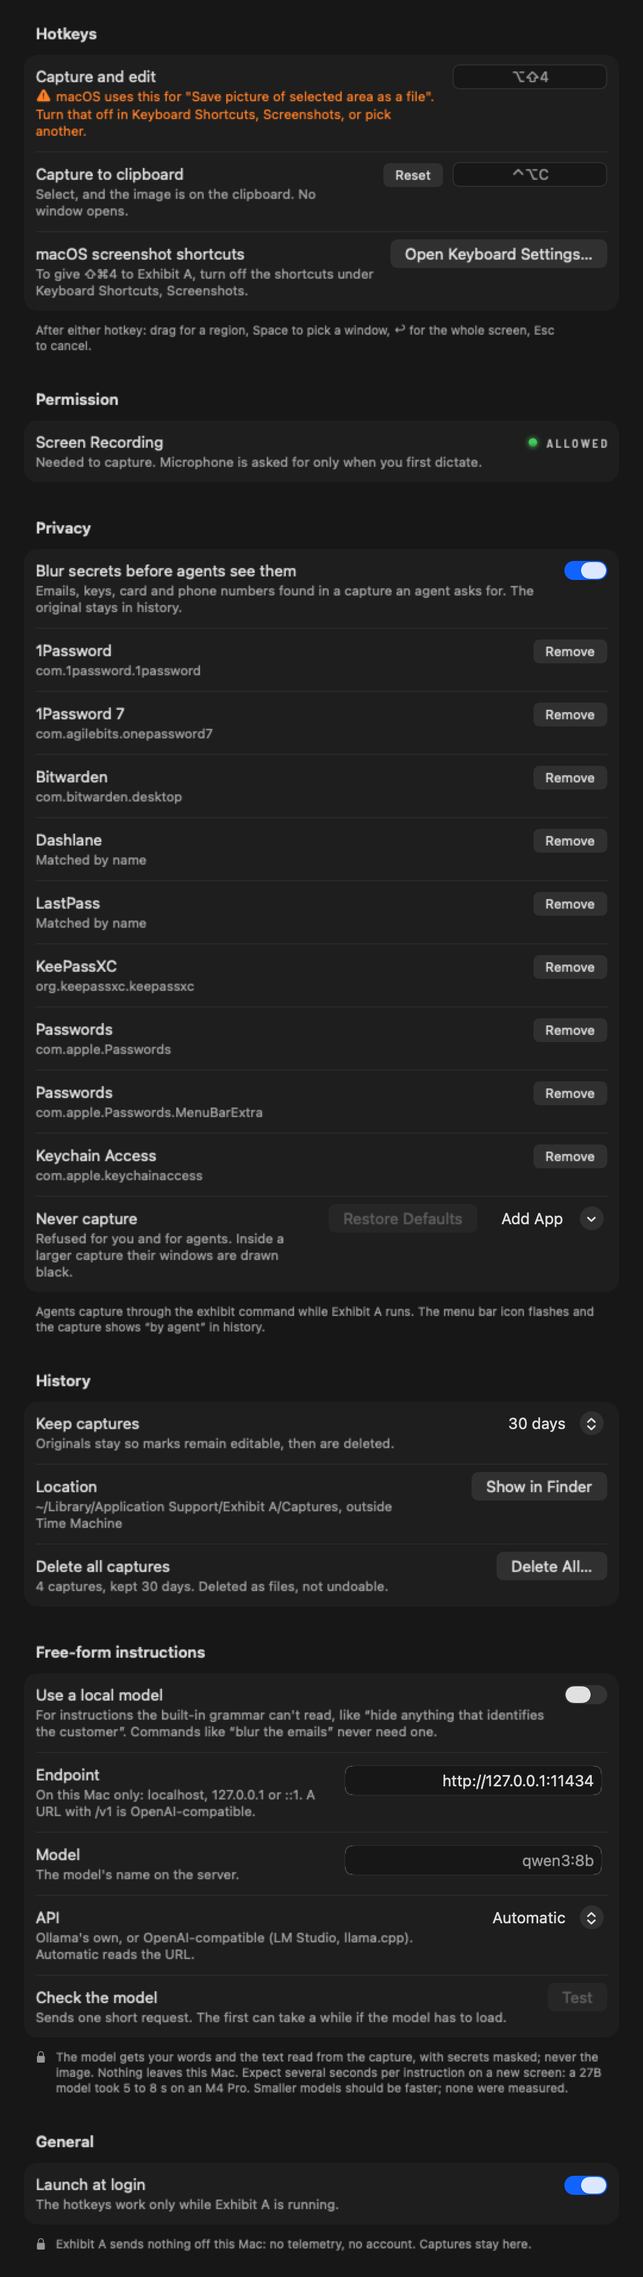
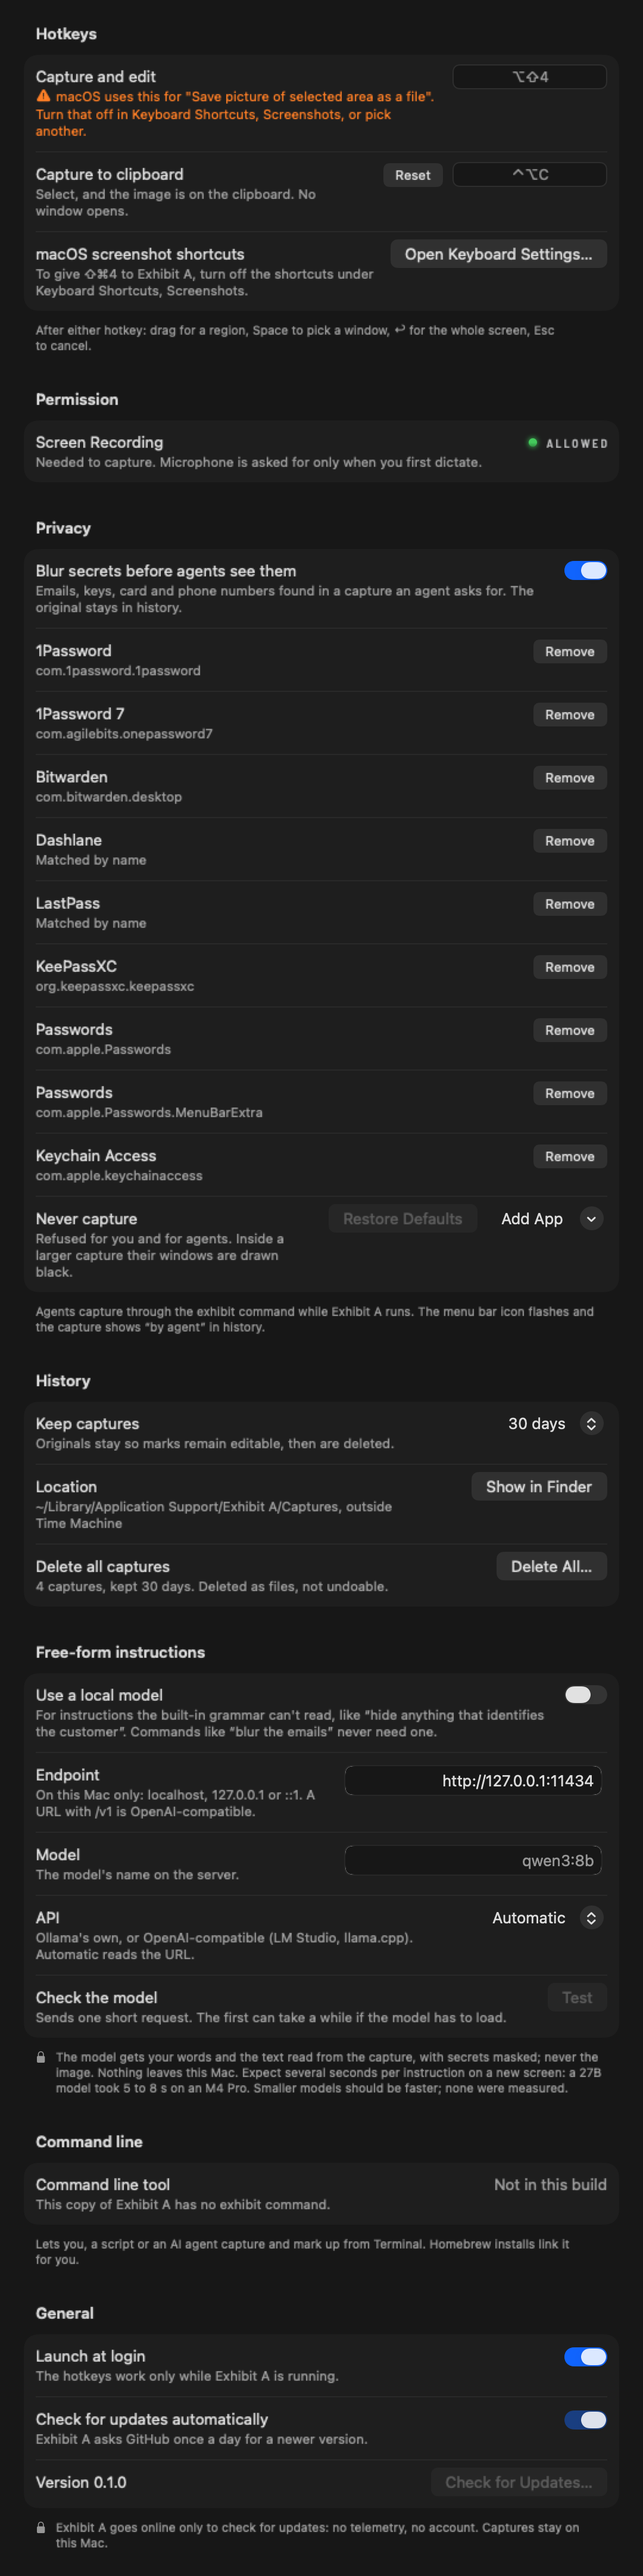
Add a Command line row to Settings: link exhibit onto the PATH, copy the MCP line
Shows whether the bundled command is linked, links it without a password prompt, and offers the
`claude mcp add exhibit -- <path> mcp` line. New settings-command-line samples; the other Settings samples gain the
row and the update controls.

Changed region(s): [[0.0611, 0.0, 0.9472, 0.9958], [0.8556, 0.2178, 0.9472, 0.4046], [0.9167, 0.8402, 0.9472, 0.8713]]

diff --git a/ExhibitAViewTests/PanelRenderTests.swift b/ExhibitAViewTests/PanelRenderTests.swift
@@ -169,6 +169,21 @@ final class PanelRenderTests: XCTestCase {
         try renderSettings(model, name: "settings-free-form-not-loopback", schemes: [.light], freeForm: remote)
     }
 
+    /// The command line row unlinked and the updater configured. The fake app bundle sits at a fixed /tmp path so
+    /// the MCP line in the sample is the same on every Mac.
+    func testRendersCommandLineAndUpdateSettings() throws {
+        let model = try makeModel()
+        let macOS = URL(fileURLWithPath: "/tmp/exhibita-render/Exhibit A.app/Contents/MacOS")
+        try FileManager.default.createDirectory(at: macOS, withIntermediateDirectories: true)
+        let bundled = macOS.appendingPathComponent("exhibit").path
+        FileManager.default.createFile(atPath: bundled, contents: Data())
+        let tool = CommandLineTool(bundled: bundled, directories: [], userDirectory: "/nonexistent")
+        XCTAssertEqual(tool.state, .notLinked)
+        let updates = UpdateSettings(isConfigured: true, version: "0.1.0", checksAutomatically: true)
+        try renderSettings(model, name: "settings-command-line", updates: updates, commandLine: tool)
+        try? FileManager.default.removeItem(atPath: "/tmp/exhibita-render")
+    }
+
     func testFreeFormIsOffByDefaultAndSavesWhatChanges() throws {
         let settings = FreeFormSettings()
         XCTAssertFalse(settings.settings.enabled)
@@ -208,11 +223,14 @@ final class PanelRenderTests: XCTestCase {
     private func renderSettings(_ model: AppModel, name: String, schemes: [ColorScheme] = [.light, .dark],
                                 policy: CapturePolicyModel? = nil,
                                 freeForm: FreeFormSettings = FreeFormSettings(settings: ModelSettings()),
-                                updates: UpdateSettings = UpdateSettings(version: "0.1.0")) throws {
+                                updates: UpdateSettings = UpdateSettings(version: "0.1.0"),
+                                commandLine: CommandLineTool = CommandLineTool(bundled: nil, directories: [],
+                                                                               userDirectory: "/nonexistent")) throws {
         for scheme in schemes {
             let hosting = NSHostingView(rootView: SettingsView(model: model, actions: SettingsActions(),
                                                                drawsRecorders: false, policy: policy,
-                                                               freeForm: freeForm, updates: updates)
+                                                               freeForm: freeForm, updates: updates,
+                                                               commandLine: commandLine)
                 .background(Color(nsColor: .windowBackgroundColor)))
             hosting.appearance = NSAppearance(named: scheme == .dark ? .darkAqua : .aqua)
             hosting.frame = NSRect(origin: .zero, size: hosting.fittingSize)

diff --git a/App/Settings/CommandLineSection.swift b/App/Settings/CommandLineSection.swift
@@ -1,0 +1,73 @@
+import AppKit
+import ExhibitShell
+import PanelKit
+import SwiftUI
+
+extension CommandLineTool {
+    /// The command inside this copy of the app, in Contents/MacOS.
+    static var app: CommandLineTool {
+        CommandLineTool(bundled: Bundle.main.url(forAuxiliaryExecutable: CommandLineTool.name)?.path)
+    }
+}
+
+/// The `exhibit` command: whether it is linked onto the PATH, a way to link it, and the line that adds the MCP
+/// server to Claude Code.
+struct CommandLineSection: View {
+    let tool: CommandLineTool
+    @State private var state: CommandLineTool.State
+    @State private var note: String?
+    @State private var copied = false
+
+    init(tool: CommandLineTool) {
+        self.tool = tool
+        _state = State(initialValue: tool.state)
+    }
+
+    var body: some View {
+        Section {
+            LabeledContent {
+                switch state {
+                case .linked:
+                    StatusLight(.go, "Linked")
+                case .notLinked:
+                    Button("Link…") {
+                        note = tool.install().message
+                        state = tool.state
+                    }
+                case .notBundled:
+                    Text("Not in this build").foregroundStyle(.secondary)
+                }
+            } label: {
+                Text("Command line tool")
+                Text(detail)
+            }
+            if let line = tool.mcpCommand {
+                LabeledContent {
+                    Button(copied ? "Copied" : "Copy") {
+                        NSPasteboard.general.clearContents()
+                        NSPasteboard.general.setString(line, forType: .string)
+                        copied = true
+                    }
+                } label: {
+                    Text("MCP server for Claude Code")
+                    Text(line).font(.system(size: 11).monospaced()).textSelection(.enabled)
+                }
+            }
+        } header: {
+            Text("Command line")
+        } footer: {
+            Text(note ?? "Lets you, a script or an AI agent capture and mark up from Terminal. Homebrew installs "
+                 + "link it for you.")
+                .font(.caption).foregroundStyle(.secondary)
+                .fixedSize(horizontal: false, vertical: true)
+        }
+    }
+
+    private var detail: String {
+        switch state {
+        case .linked(let path): "exhibit is at \(path)."
+        case .notLinked: "Adds a link named exhibit to a folder on your PATH. No password needed."
+        case .notBundled: "This copy of Exhibit A has no exhibit command."
+        }
+    }
+}

diff --git a/App/Settings/SettingsView.swift b/App/Settings/SettingsView.swift
@@ -11,7 +11,7 @@ struct SettingsActions {
 }
 
 /// One pane, grouped like System Settings: hotkeys, permission, privacy, history, free-form instructions,
-/// general.
+/// command line, general.
 struct SettingsView: View {
     let model: AppModel
     let actions: SettingsActions
@@ -22,6 +22,7 @@ struct SettingsView: View {
     var policyActions = PolicyActions()
     var freeForm = FreeFormSettings.shared
     var updates = UpdateSettings()
+    var commandLine = CommandLineTool.app
 
     static let width: CGFloat = 540
 
@@ -32,6 +33,7 @@ struct SettingsView: View {
             if let policy { NeverCaptureSection(policy: policy, actions: policyActions) }
             HistorySection(model: model, actions: actions)
             FreeFormSection(model: freeForm)
+            CommandLineSection(tool: commandLine)
             GeneralSection(model: model, updates: updates)
         }
         .formStyle(.grouped)
